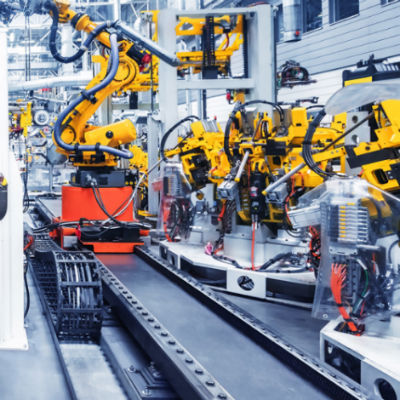
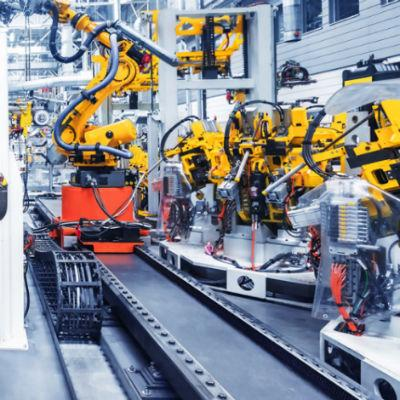
Decrease image size

diff --git a/index.html b/index.html
@@ -270,7 +270,7 @@
                         <div class="card">
                             <a href="https://github.com/kplachkov/OOP" title="" class="card-image hover-overlay"
                                target="_blank" rel="noopener">
-                                <img src="/img/projects/OOP.png" alt="" class="img-responsive">
+                                <img src="/img/projects/OOP.jpg" alt="" class="img-responsive">
                             </a>
                             <div class="card-text">
                                 <h4><a href="https://github.com/kplachkov/OOP" target="_blank" rel="noopener">OOP</a>
@@ -304,7 +304,7 @@
                         <div class="card">
                             <a href="https://github.com/kplachkov/KPBlog" title="" class="card-image hover-overlay"
                                target="_blank" rel="noopener">
-                                <img src="/img/projects/KPBlog.png" alt="" class="img-responsive">
+                                <img src="/img/projects/KPBlog.jpg" alt="" class="img-responsive">
                             </a>
                             <div class="card-text">
                                 <h4><a href="https://github.com/kplachkov/KPBlog" target="_blank"
@@ -353,7 +353,7 @@
                     </h3>
                     <div class="col-xs-12 col-md-3 article-image">
                         <a href="/talk/blockchain-plovdev/">
-                            <img src="/img/talks/plovdev_talk.jpg" itemprop="image">
+                            <img src="/img/talks/plovdev_talk.jpg" itemprop="image" alt="">
                         </a>
                     </div>
                     <div class="col-xs-12 col-md-8 article-style" itemprop="articleBody">
